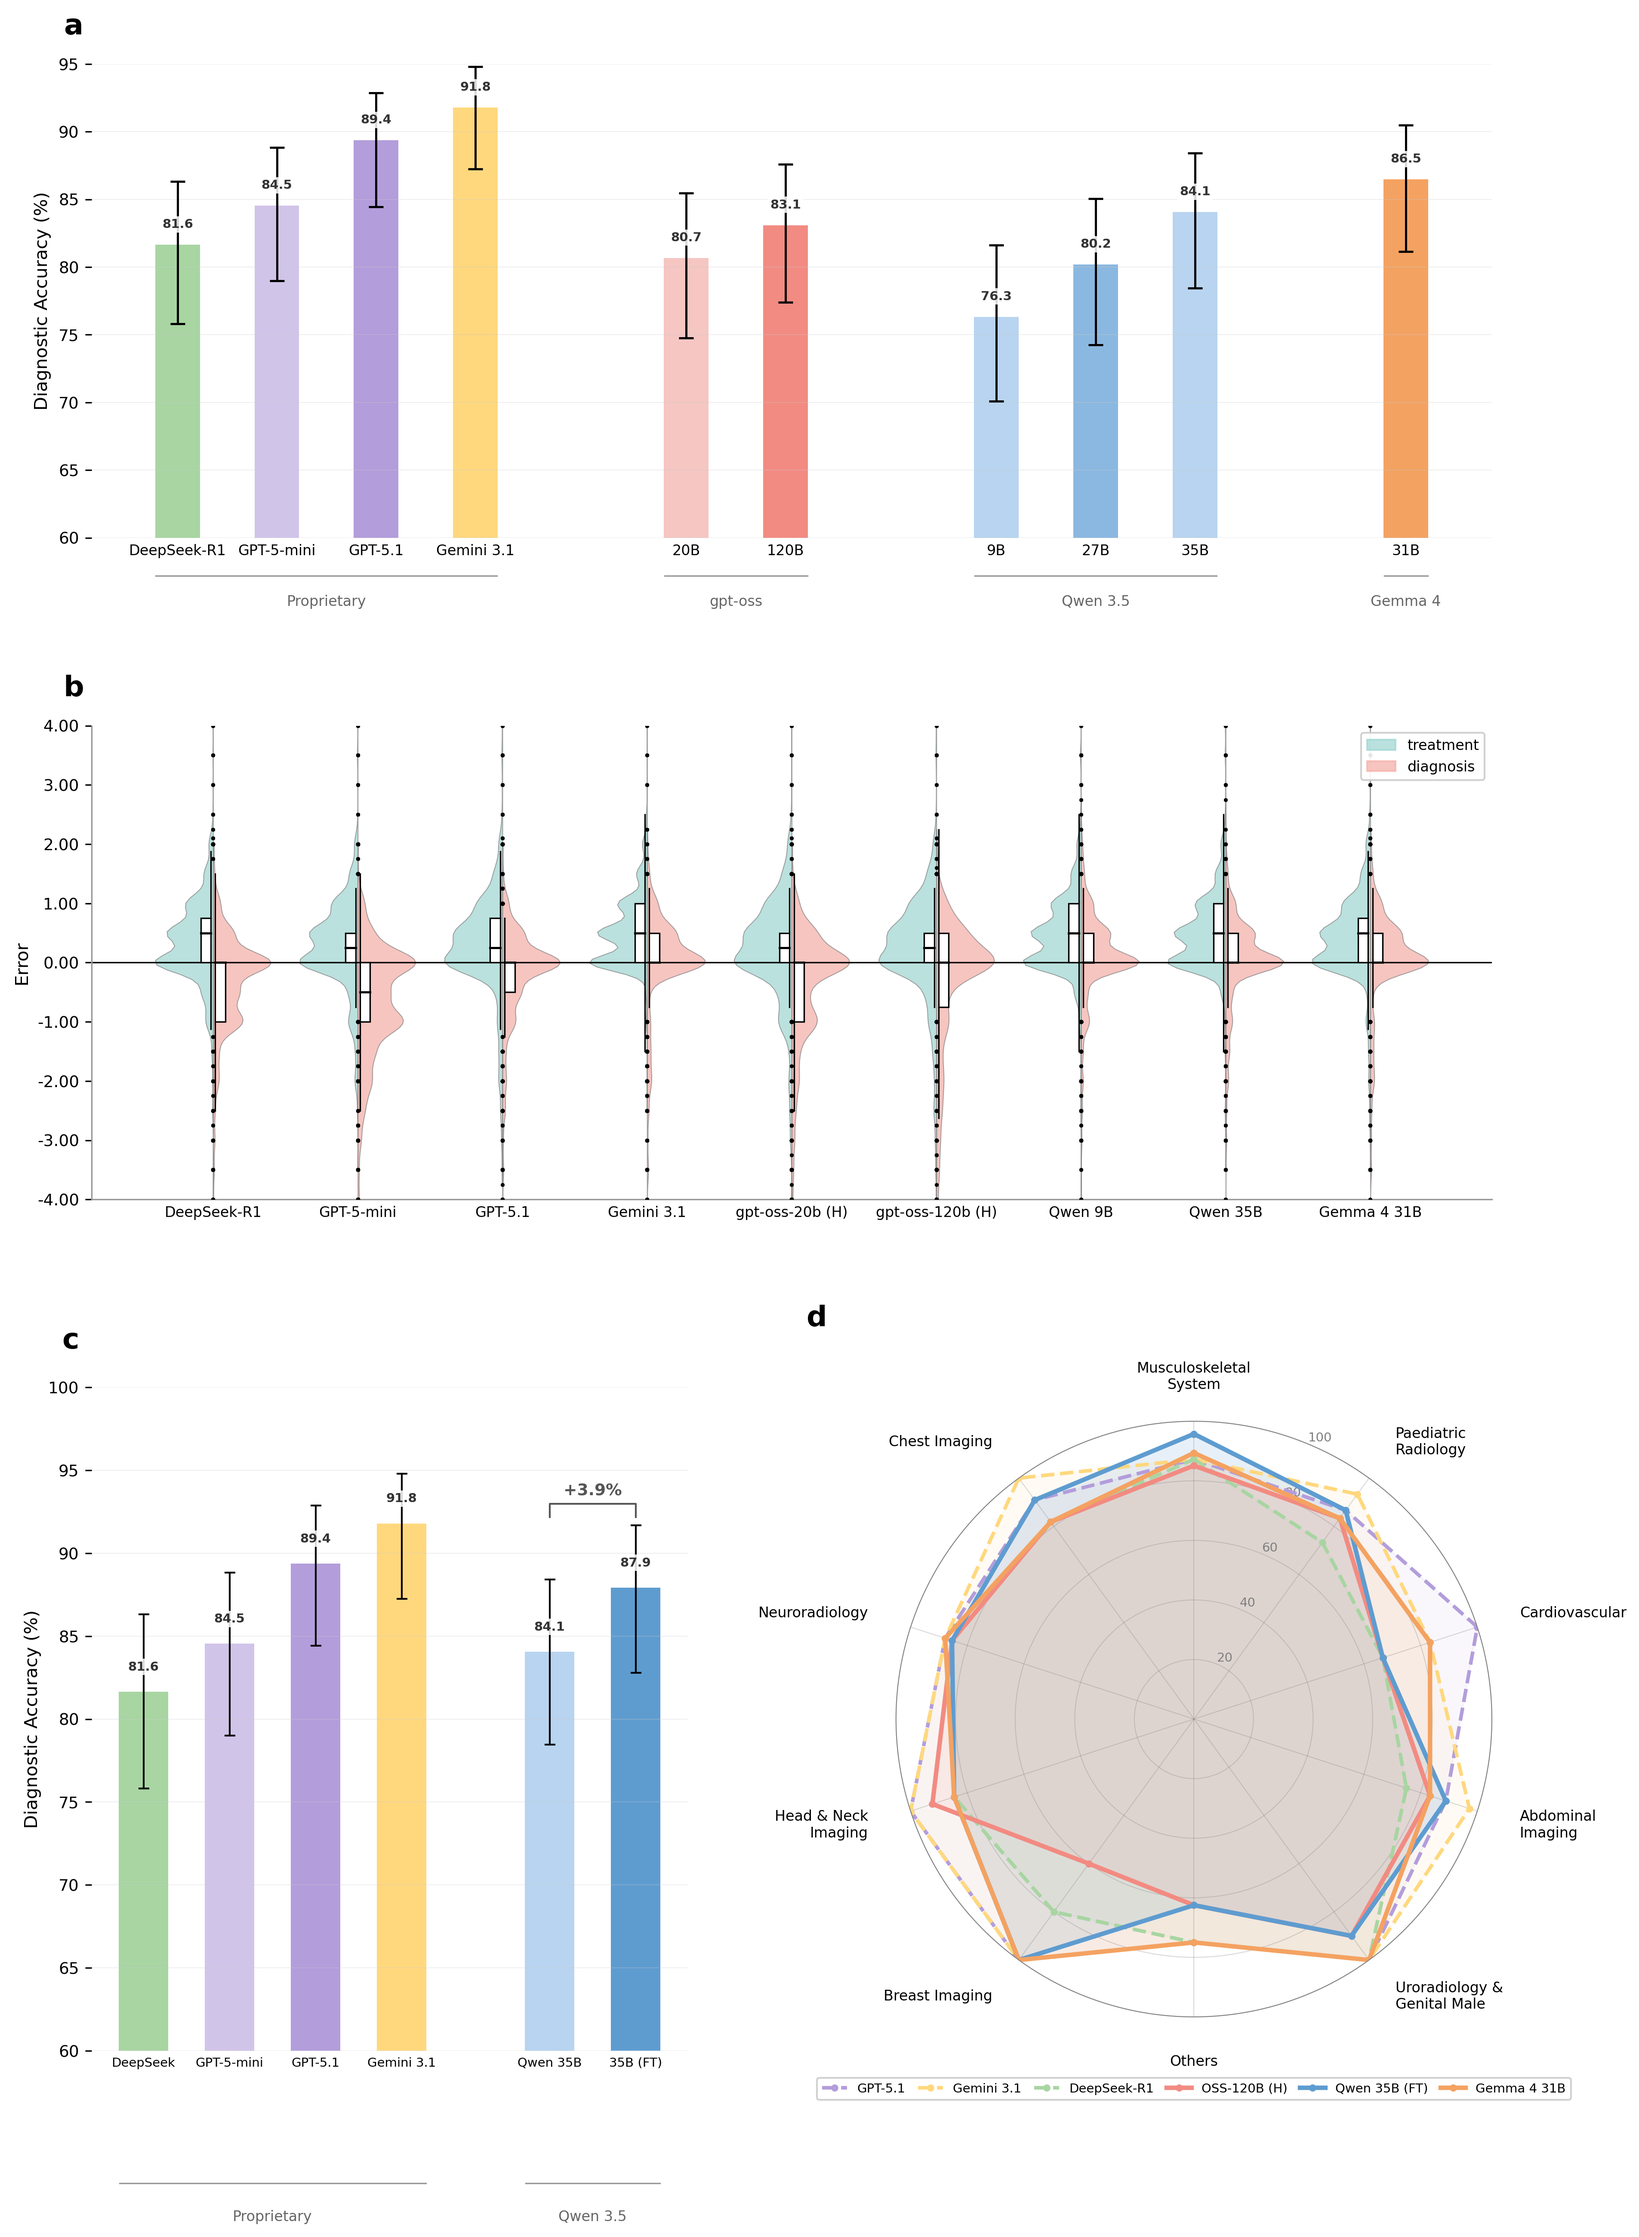
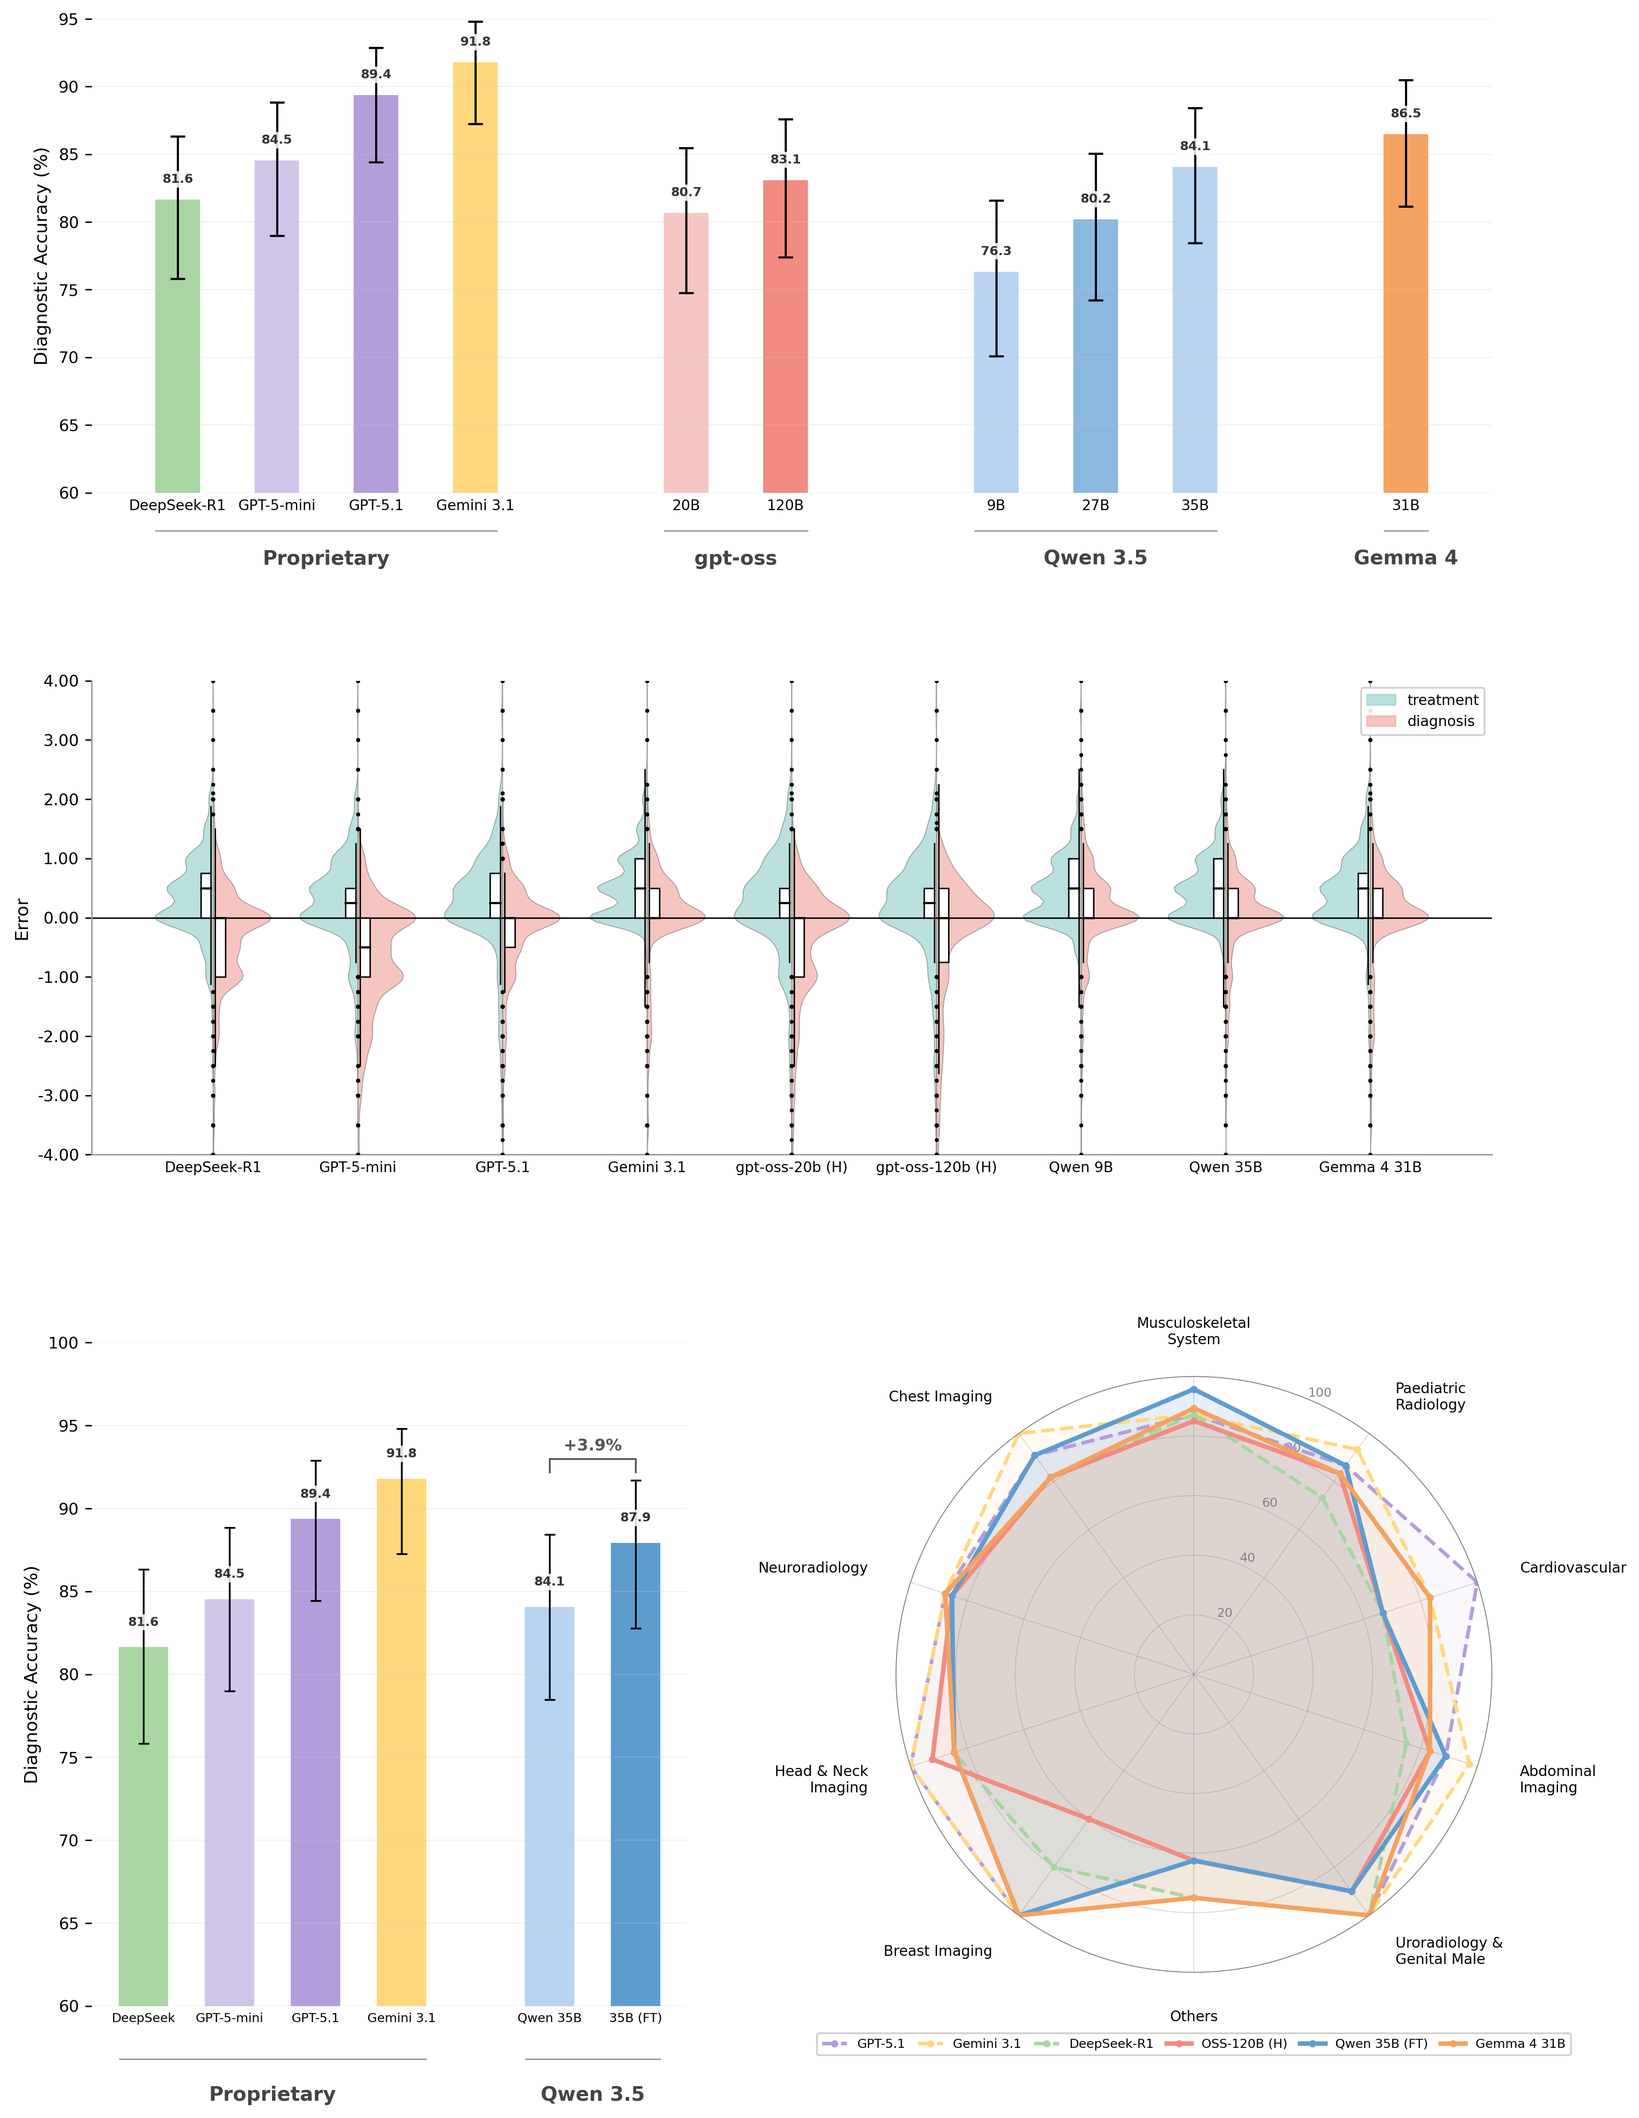
Restyle Fig 2 group labels; remove panel letters
- Tighten group labels in panel c (line_y -0.20 -> -0.08) matching
  panel a
- Remove a/b/c/d panel letter annotations
- Bold group labels (Proprietary, gpt-oss, Qwen 3.5, Gemma 4) and
  bump font size 8 -> 11 with darker color

diff --git a/figures/combined_figure.py b/figures/combined_figure.py
@@ -94,7 +94,8 @@ def panel_accuracy(ax):
         ax.plot([start - 0.35, end + 0.35], [line_y, line_y],
                 color="#999999", lw=0.8, transform=trans, clip_on=False)
         ax.text(mid, text_y, group_name, ha="center", va="top",
-                fontsize=8, color="#666666", transform=trans)
+                fontsize=11, fontweight="bold", color="#444444",
+                transform=trans)
 
     ax.set_xticks(positions)
     ax.set_xticklabels([ACC_SHORT[m] for m in labels], fontsize=8)
@@ -259,13 +260,16 @@ def panel_finetune(ax):
 
     trans = ax.get_xaxis_transform()
     groups = [("Proprietary", 0, 3), ("Qwen 3.5", 4, 5)]
+    line_y = -0.08
+    text_y = -0.12
     for group_name, i_start, i_end in groups:
         mid = (positions[i_start] + positions[i_end]) / 2
         ax.plot([positions[i_start] - 0.35, positions[i_end] + 0.35],
-                [-0.20, -0.20], color="#999999", lw=0.8,
+                [line_y, line_y], color="#999999", lw=0.8,
                 transform=trans, clip_on=False)
-        ax.text(mid, -0.24, group_name, ha="center", va="top",
-                fontsize=8, color="#666666", transform=trans)
+        ax.text(mid, text_y, group_name, ha="center", va="top",
+                fontsize=11, fontweight="bold", color="#444444",
+                transform=trans)
 
     ax.set_xticks(positions)
     ax.set_xticklabels(labels, fontsize=7)
@@ -351,29 +355,21 @@ def main():
     ax_a = fig.add_subplot(gs[0, :])
     ax_a.set_facecolor("white")
     panel_accuracy(ax_a)
-    ax_a.text(-0.02, 1.05, "a", transform=ax_a.transAxes,
-              fontsize=16, fontweight="bold", va="bottom")
 
     # Panel b — full width
     ax_b = fig.add_subplot(gs[1, :])
     ax_b.set_facecolor("white")
     panel_violin(ax_b)
-    ax_b.text(-0.02, 1.05, "b", transform=ax_b.transAxes,
-              fontsize=16, fontweight="bold", va="bottom")
 
     # Panel c — bottom left
     ax_c = fig.add_subplot(gs[2, 0])
     ax_c.set_facecolor("white")
     panel_finetune(ax_c)
-    ax_c.text(-0.05, 1.05, "c", transform=ax_c.transAxes,
-              fontsize=16, fontweight="bold", va="bottom")
 
     # Panel d — bottom right (polar)
     ax_d = fig.add_subplot(gs[2, 1], polar=True)
     ax_d.set_facecolor("white")
     panel_radar(ax_d)
-    ax_d.text(-0.15, 1.15, "d", transform=ax_d.transAxes,
-              fontsize=16, fontweight="bold", va="bottom")
 
     if args.output:
         fig.savefig(args.output, dpi=300, bbox_inches="tight", facecolor="white")
